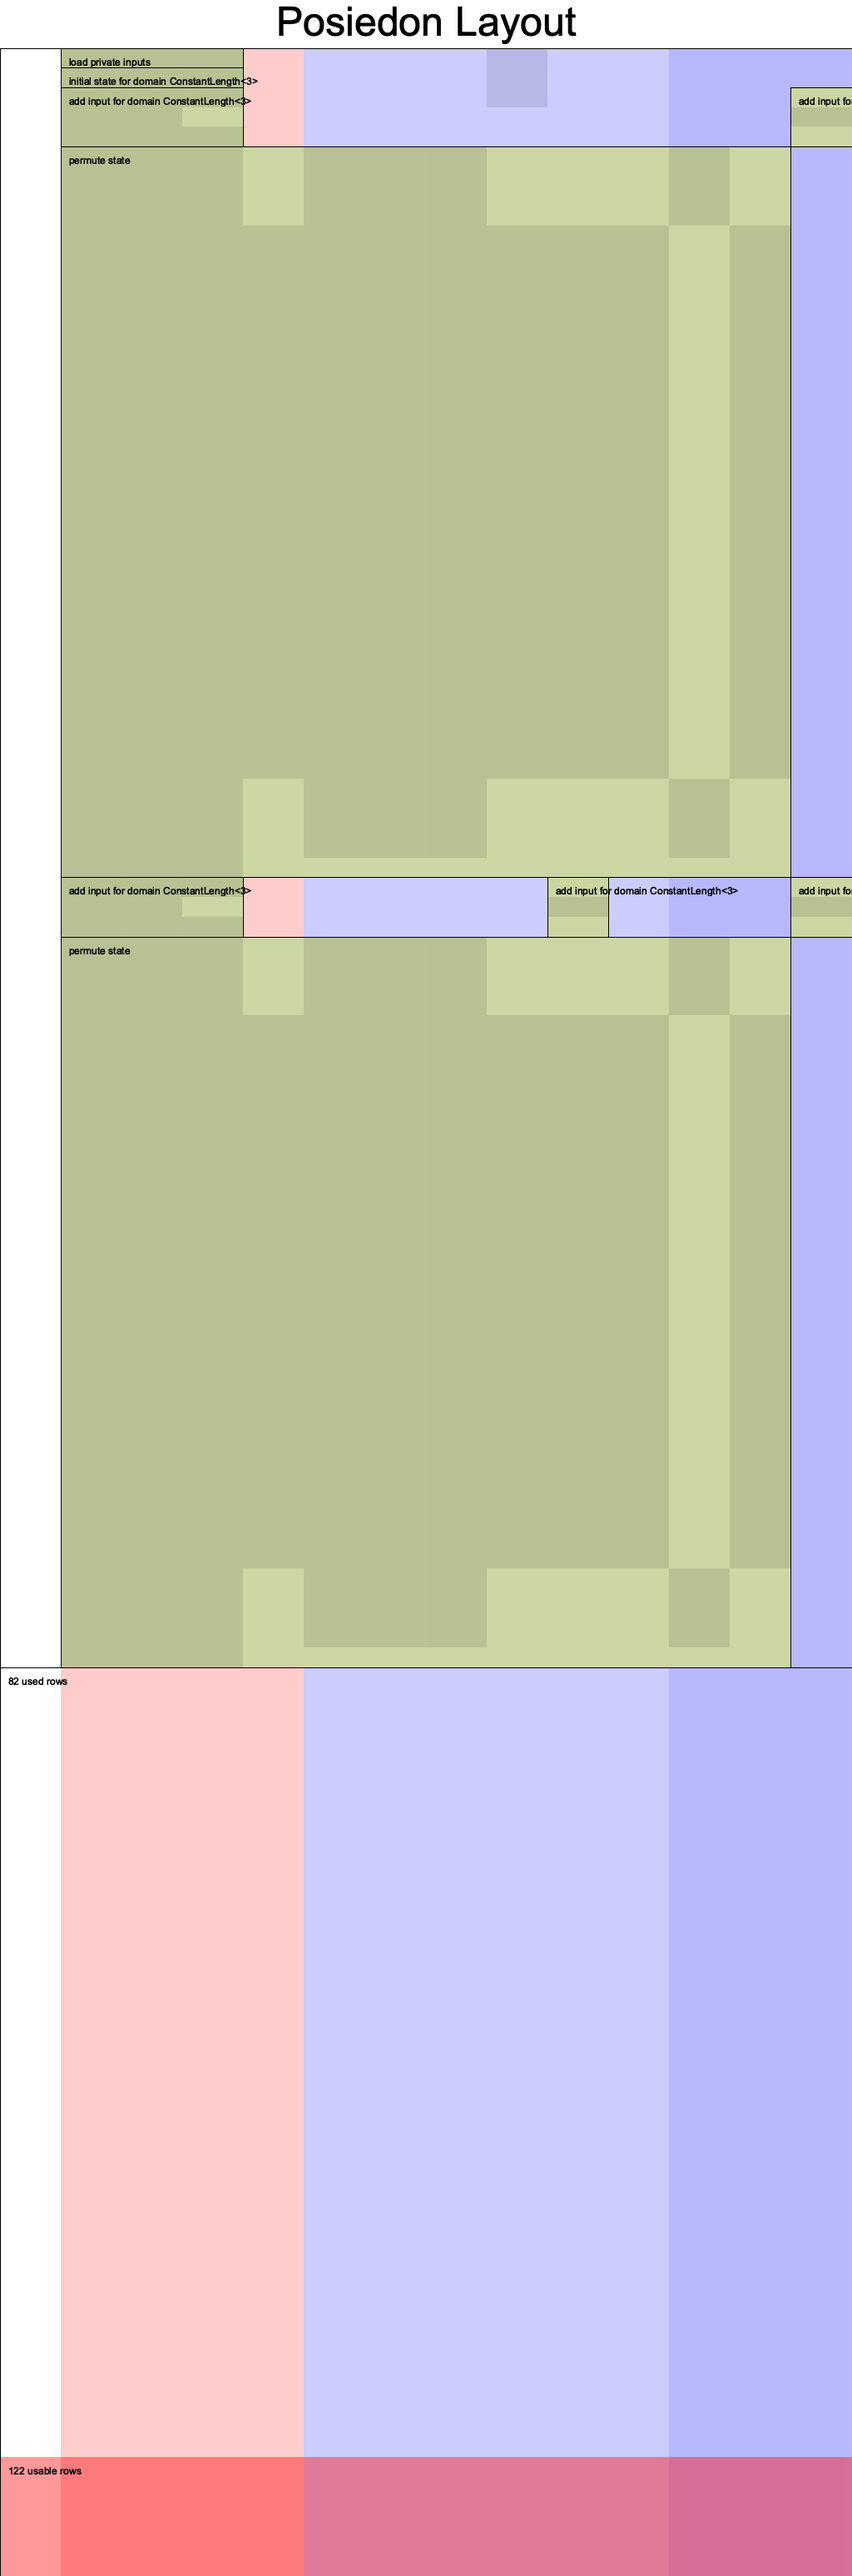
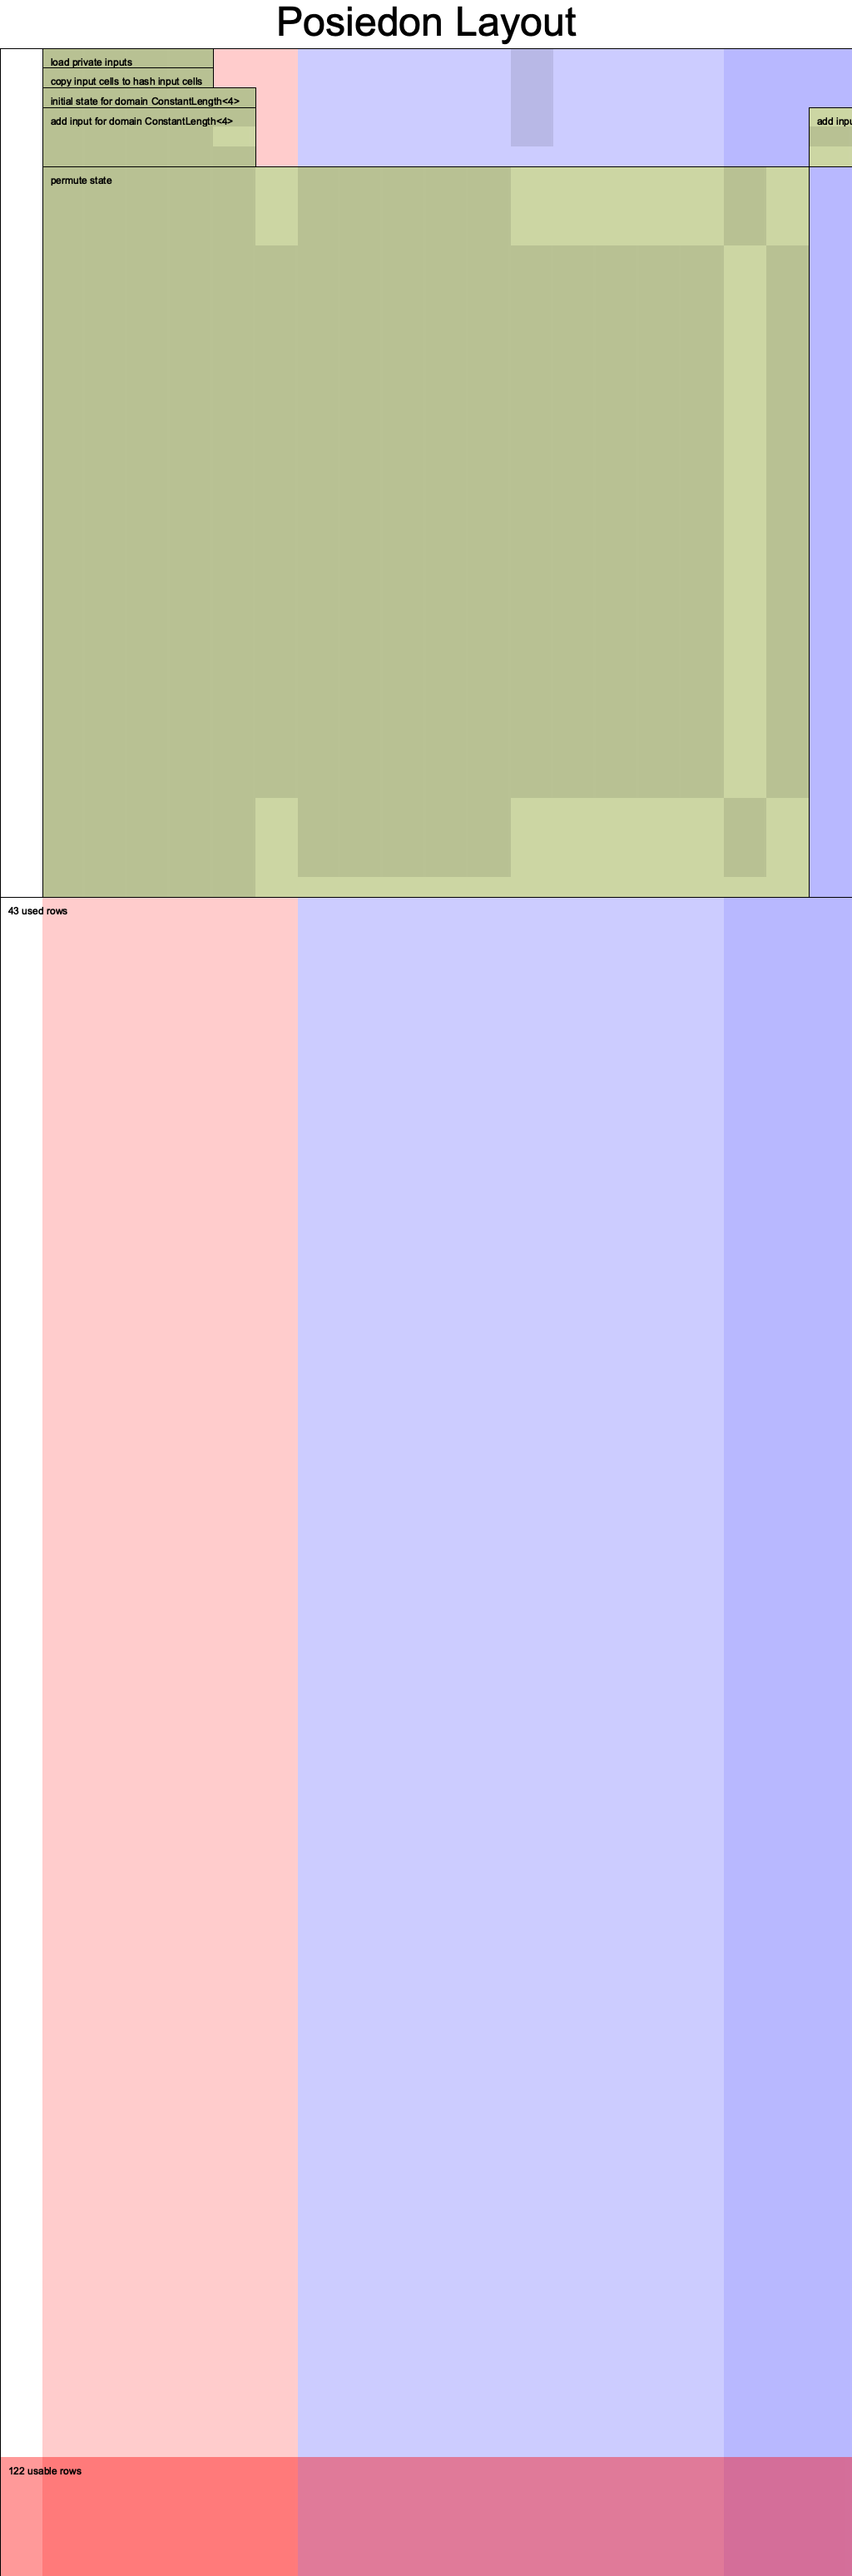
added `myType` struct to poseidon.rs

Changed region(s): [[0.0312, 0.0, 1.0, 1.0]]

diff --git a/src/circuits/poseidon.rs b/src/circuits/poseidon.rs
@@ -1,6 +1,6 @@
 use super::super::chips::poseidon::{PoseidonChip, PoseidonConfig};
 use halo2_gadgets::poseidon::primitives::*;
-use halo2_proofs::{circuit::*, plonk::*, halo2curves::pasta::Fp};
+use halo2_proofs::{arithmetic::Field, circuit::*, plonk::*, halo2curves::pasta::Fp};
 use std::marker::PhantomData;
 
 struct PoseidonCircuit<
@@ -63,25 +63,29 @@ impl<
 
 #[cfg(test)]
 mod tests {
+    use super::MySpec;
     use std::marker::PhantomData;
     use super::PoseidonCircuit;
-    use halo2_gadgets::poseidon::primitives::{self as poseidon, ConstantLength, P128Pow5T3};
+    use halo2_gadgets::poseidon::primitives::{self as poseidon, ConstantLength};
     use halo2_proofs::{circuit::Value, dev::MockProver, halo2curves::pasta::Fp};
     #[test]
     fn test_poseidon() {
         let input = 99u64;
-        let hash_input = [Fp::from(input), Fp::from(input), Fp::from(input)];
+        let hash_input = [Fp::from(input), Fp::from(input), Fp::from(input), Fp::from(input)];
 
-        println!("input: {:?}", Fp::from(input));
+        const WIDTH: usize = 5;
+        const RATE: usize = 4;
+        const L: usize = 4;
+
+        assert_eq!(hash_input.len(), L);
+        assert_eq!(WIDTH, hash_input.len() + 1);
+        assert_eq!(RATE, hash_input.len());
 
         // compute the hash outside of the circuit
         let digest =
-            poseidon::Hash::<_, P128Pow5T3, ConstantLength<3>, 3, 2>::init().hash(hash_input);
+            poseidon::Hash::<_, MySpec<WIDTH, RATE>, ConstantLength<L>, WIDTH, RATE>::init().hash(hash_input);
 
-        // print output
-        println!("output: {:?}", digest);
-
-        let circuit = PoseidonCircuit::<P128Pow5T3, 3, 2, 3> {
+        let circuit = PoseidonCircuit::<MySpec<WIDTH,RATE>, WIDTH, RATE, L> {
             hash_input: hash_input.map(Value::known),
             digest: Value::known(digest),
             _spec: PhantomData,
@@ -94,6 +98,7 @@ mod tests {
     #[cfg(feature = "dev-graph")]
     #[test]
     fn print_poseidon() {
+        use super::MySpec;
         use halo2_proofs::halo2curves::pasta::Fp;
         use plotters::prelude::*;
 
@@ -103,12 +108,16 @@ mod tests {
         let root = root.titled("Posiedon Layout", ("sans-serif", 60)).unwrap();
 
         let input = 99u64;
-        let hash_input = [Fp::from(input), Fp::from(input), Fp::from(input)];
+        let hash_input = [Fp::from(input), Fp::from(input), Fp::from(input), Fp::from(input)];
+
+        const WIDTH: usize = 5;
+        const RATE: usize = 4;
+        const L: usize = 4;
 
         let digest =
-            poseidon::Hash::<_, P128Pow5T3, ConstantLength<3>, 3, 2>::init().hash(hash_input);
+            poseidon::Hash::<_, MySpec<WIDTH, RATE>, ConstantLength<L>, WIDTH, RATE>::init().hash(hash_input);
 
-        let circuit = PoseidonCircuit::<P128Pow5T3, 3, 2, 3> {
+        let circuit = PoseidonCircuit::<MySpec<WIDTH, RATE>, WIDTH, RATE, L> {
             hash_input: hash_input.map(|x| Value::known(x)),
             digest: Value::known(digest),
             _spec: PhantomData,
@@ -117,5 +126,32 @@ mod tests {
         halo2_proofs::dev::CircuitLayout::default()
             .render(7, &circuit, &root)
             .unwrap();
+    }
+}
+
+// P128Pow5T3 is the default Spec provided by the Halo2 Gadget => https://github.com/privacy-scaling-explorations/halo2/blob/main/halo2_gadgets/src/poseidon/primitives/p128pow5t3.rs#L13
+// This spec hardcodes the WIDTH and RATE parameters of the hash function to 3 and 2 respectively
+// This is problematic because to perform an hash of a input array of length 4, we need the WIDTH parameter to be higher than 3
+// Since the WIDTH parameter is used to define the number of hash_inputs column in the PoseidonChip.
+// Because of that we need to define a new Spec
+// MySpec struct allows us to define the parameters of the Poseidon hash function WIDTH and RATE
+#[derive(Debug, Clone, Copy)]
+pub struct MySpec<const WIDTH: usize, const RATE: usize>;
+
+impl<const WIDTH: usize, const RATE: usize> Spec<Fp, WIDTH, RATE> for MySpec<WIDTH, RATE> {
+    fn full_rounds() -> usize {
+        8
+    }
+
+    fn partial_rounds() -> usize {
+        56
+    }
+
+    fn sbox(val: Fp) -> Fp {
+        val.pow_vartime(&[5])
+    }
+
+    fn secure_mds() -> usize {
+        0
     }
 }

diff --git a/src/chips/poseidon.rs b/src/chips/poseidon.rs
@@ -7,7 +7,7 @@ is already implemented in halo2_gadgets, there is no wrapper chip that makes it 
 // Furthermore it adds an instance column to store the public expected output of the hash
 
 use halo2_gadgets::poseidon::{primitives::*, Hash, Pow5Chip, Pow5Config};
-use halo2_proofs::{circuit::*, plonk::*, halo2curves::pasta::Fp};
+use halo2_proofs::{arithmetic::Field, circuit::*, plonk::*, halo2curves::pasta::Fp};
 use std::marker::PhantomData;
 
 #[derive(Debug, Clone)]
@@ -148,3 +148,7 @@ impl<S: Spec<Fp, WIDTH, RATE>, const WIDTH: usize, const RATE: usize, const L: u
         layouter.constrain_instance(cell.cell(), self.config.instance, row)
     }
 }
+
+
+
+

diff --git a/src/chips.rs b/src/chips.rs
@@ -6,4 +6,4 @@ pub mod merkle_v1;
 pub mod merkle_v2;
 pub mod poseidon;
 pub mod merkle_v3;
-pub mod merkle_sum_tree;
+// pub mod merkle_sum_tree;

diff --git a/src/circuits.rs b/src/circuits.rs
@@ -6,4 +6,4 @@ pub mod merkle_v1;
 pub mod merkle_v2;
 pub mod poseidon;
 pub mod merkle_v3;
-pub mod merkle_sum_tree;
+// pub mod merkle_sum_tree;

diff --git a/README.md b/README.md
@@ -216,6 +216,9 @@ In particular we can see that the poseidon hash is instantiated using different 
     - call `hash` on the poseidon chip passing the hash input values to the advice columns `hash_inputs`. This function will return the assigned cells inside the advice columns `hash_inputs`. Later it will initialize the `pow5_chip` and call the `hash` function on the `pow5_chip` passing the `hash_input` column. This function will return an assigned cell that represents the constrained output of the hash function.
     - call the `expose_public` function on the poseidon chip by passing in the assigned cell output of the `hash` function. This function will constrain it to be equal to the expected hash output passed into the public instance column.
 
+`cargo test -- --nocapture test_poseidon`
+`cargo test --all-features -- --nocapture print_poseidon`
+
 # Experiment 8 - Merkle Tree V3
 
 This experiment re-implements the Merkle Tree circuit of experiment 6 using the PoseidonChip created in experiment 7. 
